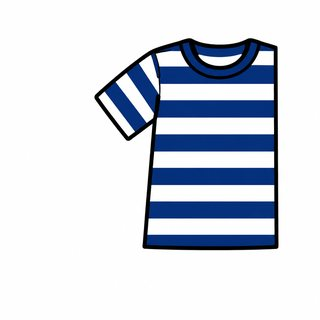
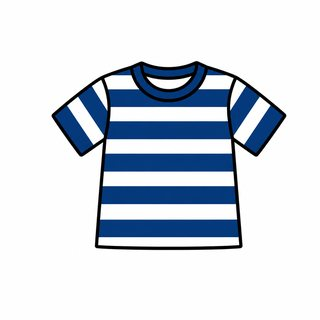
T셔츠 그림 수정 - 소매가 몸통에서 떨어져 보이던 문제
사진이 비스듬히 찍혀 오른쪽 칸이 밀린 탓에 참고 그림의 오른쪽 소매가 잘린 채
들어가서 생긴 문제. 정확한 위치로 다시 잘라 재생성함. v1.9

Changed region(s): [[0.1562, 0.0938, 0.9062, 0.7812]]

diff --git a/index.html b/index.html
@@ -1282,7 +1282,7 @@ document.addEventListener('keydown',function(e){if(e.key==='Escape') hlpClose();
 #site-meta b{color:#ff8bbd;font-weight:normal;}
 @media print{#site-meta{display:none !important;}}
 </style>
-<div id="site-meta">💝 방문 <b><span id="visit-count">…</span></b>회 &nbsp;·&nbsp; v1.8 &nbsp;·&nbsp; 2026-08-29</div>
+<div id="site-meta">💝 방문 <b><span id="visit-count">…</span></b>회 &nbsp;·&nbsp; v1.9 &nbsp;·&nbsp; 2026-08-29</div>
 <script>
 (function(){
   var el=document.getElementById('visit-count');
